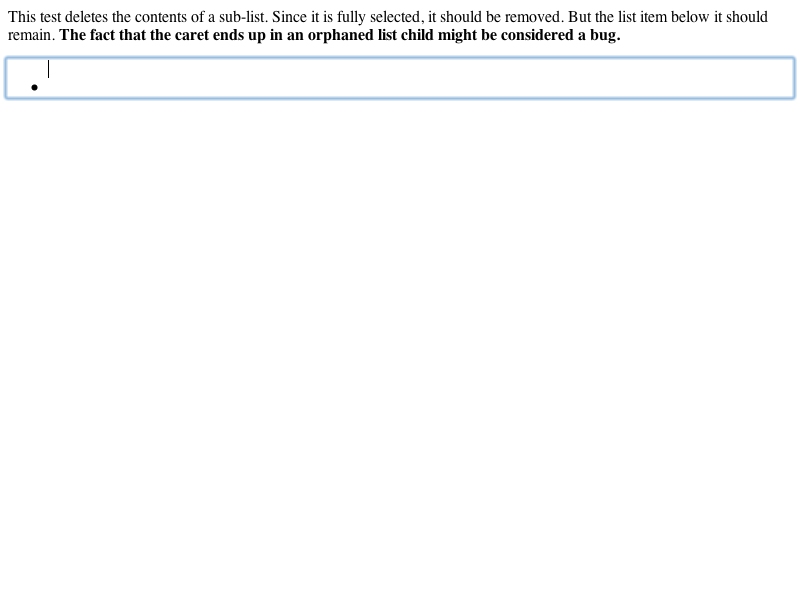
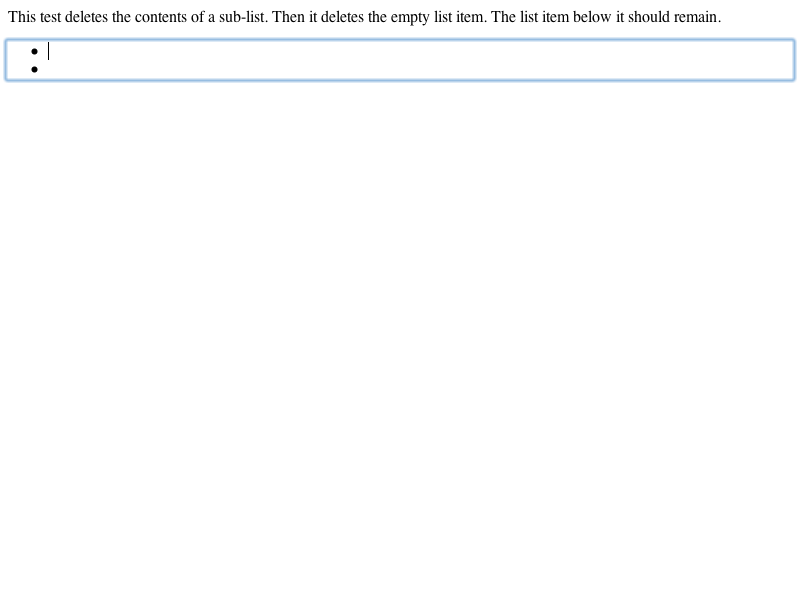
LayoutTests:
Reviewed by darin
        
        <rdar://problem/4875189> List is deleted when replacing contents with Chinese/Japanese characters

        Moved from unsupported-content because we've supported editing lists
        for a while now:
        * editing/deleting/4875189-expected.checksum: Added.
        * editing/deleting/4875189-expected.png: Added.
        * editing/deleting/4875189-expected.txt: Added.
        * editing/deleting/4875189.html: Added.
        * editing/unsupported-content/list-delete-002-expected.checksum: Removed.
        * editing/unsupported-content/list-delete-002-expected.png: Removed.
        * editing/unsupported-content/list-delete-002-expected.txt: Removed.
        * editing/unsupported-content/list-delete-002.html: Removed.
        
        Reflects new behavior:
        * editing/deleting/delete-select-all-003-expected.checksum:
        * editing/deleting/delete-select-all-003-expected.png:
        * editing/deleting/delete-select-all-003-expected.txt:
        
        Ditto and also removed a FIXME:
        * editing/deleting/list-item-1-expected.checksum:
        * editing/deleting/list-item-1-expected.png:
        * editing/deleting/list-item-1-expected.txt:
        * editing/deleting/list-item-1.html:

WebCore:

        Reviewed by darin
        
        <rdar://problem/4875189> 
        List is deleted when replacing contents with Chinese/Japanese characters

        * editing/htmlediting.cpp:
[…]

Changed region(s): [[0.0, 0.0, 1.0, 0.18]]

diff --git a/editing/deleting/list-item-1.html b/editing/deleting/list-item-1.html
@@ -3,7 +3,7 @@ if (window.layoutTestController)
      layoutTestController.dumpEditingCallbacks();
 </script>
 <body>
-<p>This test deletes the contents of a sub-list.  Since it is fully selected, it should be removed.  But the list item below it should remain. <b>The fact that the caret ends up in an orphaned list child might be considered a bug.</b></p>
+<p>This test deletes the contents of a sub-list.  Then it deletes the empty list item. The list item below it should remain.</p>
 <div id="div" contentEditable="true"><ul><ul><li>foo</li></ul><li><br></li></ul></div>
 
 <script>
@@ -12,6 +12,7 @@ var sel = window.getSelection();
 
 sel.setPosition(div, 0);
 sel.modify("extend", "forward", "word");
+document.execCommand("Delete");
 document.execCommand("Delete");
 </script>
 </body>

diff --git a/editing/deleting/4875189.html b/editing/deleting/4875189.html
@@ -1,0 +1,10 @@
+<p>This test deletes the contents of a list, then it performs another delete, which should remove the empty list item. There should be two paragraphs below.</p>
+<div id="div" contentEditable="true">Paragraph One.<ul><li id="li">bar</li></ul>Paragraph Two.</div>
+
+<script>
+var li = document.getElementById("li");
+var sel = window.getSelection();
+sel.setBaseAndExtent(li, 0, li, li.childNodes.length);
+document.execCommand("Delete");
+document.execCommand("Delete");
+</script>
